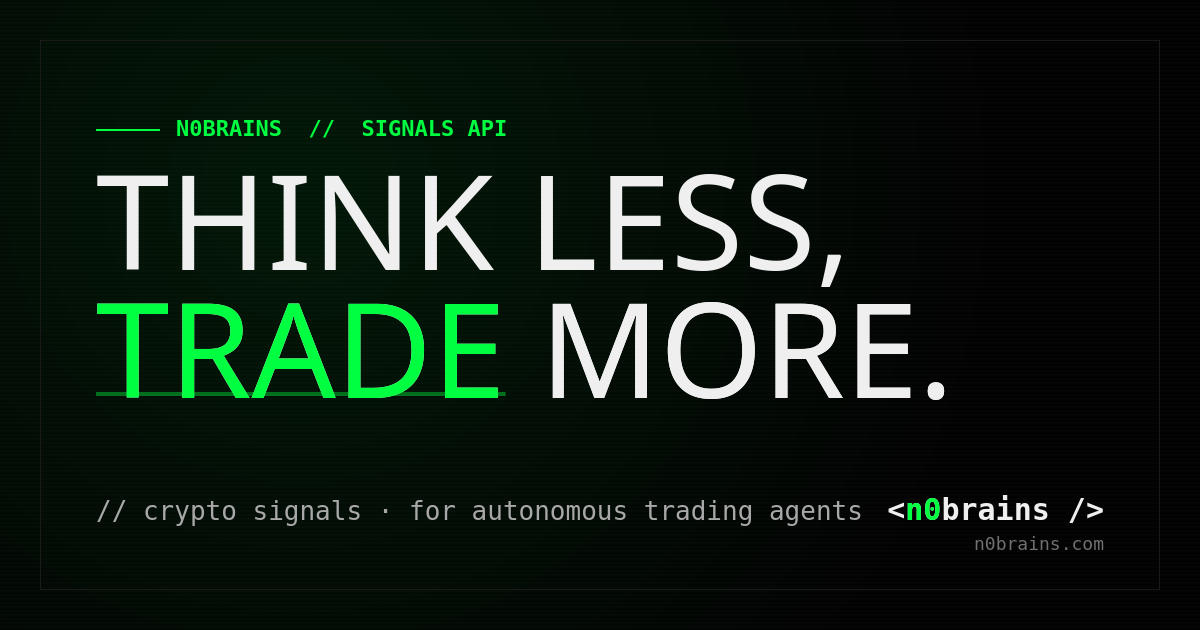
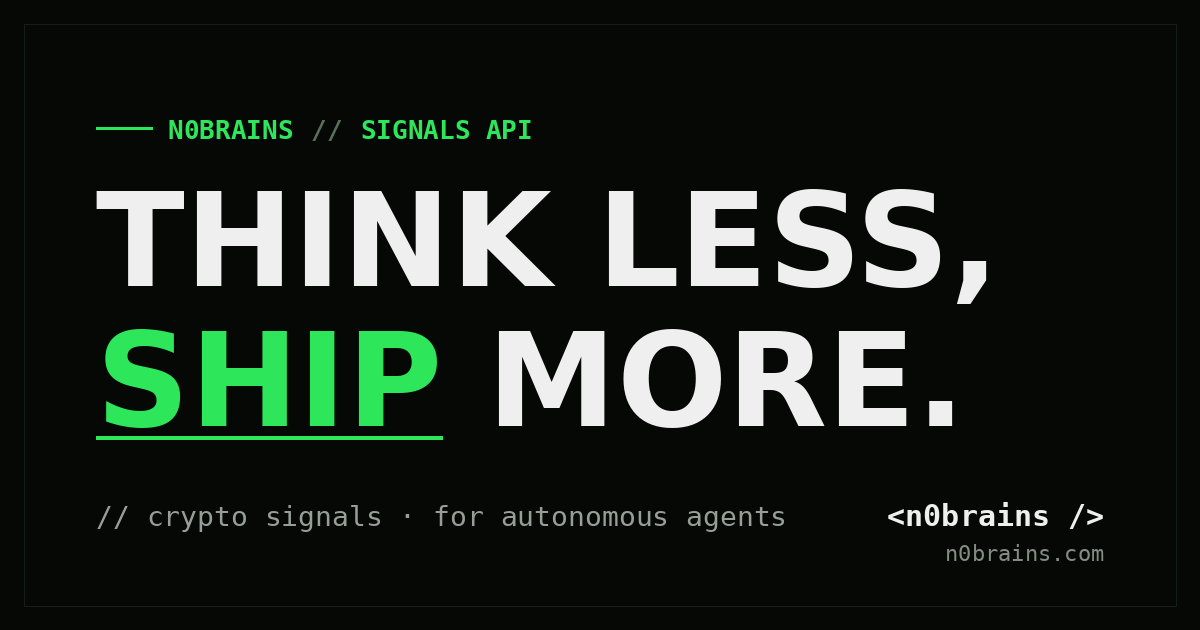
Regenerate og-default.png: Think Less SHIP More (was stale Trade More from May 14)
Link previews still showed the old THINK LESS, TRADE MORE card — a static PNG
baked before the Ship More rebrand, never regenerated. New card matches current
tagline + design. Adds scripts/gen_og_default.py to rebuild it.

diff --git a/scripts/gen_og_default.py b/scripts/gen_og_default.py
@@ -1,0 +1,87 @@
+#!/usr/bin/env python3
+"""Generate public/og-default.png — the default social/link-preview card.
+
+Was baked 2026-05-14 with the OLD tagline "THINK LESS, TRADE MORE" + "trading
+agents"; the site rebranded to "Think Less, Ship More" but this static PNG was
+never regenerated, so link previews still showed the old text. This recreates it
+with the current tagline. Re-run: python3 scripts/gen_og_default.py
+"""
+import os
+
+from PIL import Image, ImageDraw, ImageFont
+
+W, H = 1200, 630
+BG = (5, 8, 5)
+ACCENT = (45, 230, 90)       # green
+HEAD = (239, 239, 239)       # near-white
+MUTED = (130, 140, 130)
+SUB = (150, 158, 150)
+
+FONT_DIR = "/usr/share/fonts/truetype/dejavu"
+SANS = os.path.join(FONT_DIR, "DejaVuSans.ttf")
+SANS_BOLD = os.path.join(FONT_DIR, "DejaVuSans-Bold.ttf")
+MONO = os.path.join(FONT_DIR, "DejaVuSansMono.ttf")
+MONO_BOLD = os.path.join(FONT_DIR, "DejaVuSansMono-Bold.ttf")
+OUT = os.path.join(os.path.dirname(__file__), "..", "public", "og-default.png")
+
+
+def f(path, size):
+    return ImageFont.truetype(path, size)
+
+
+def main():
+    img = Image.new("RGB", (W, H), BG)
+    d = ImageDraw.Draw(img)
+
+    # subtle vignette border
+    d.rectangle([24, 24, W - 24, H - 24], outline=(20, 30, 20), width=1)
+
+    pad = 96
+
+    # ── header: ── N0BRAINS // SIGNALS API
+    hy = 120
+    d.line([(pad, hy + 8), (pad + 56, hy + 8)], fill=ACCENT, width=3)
+    hx = pad + 72
+    hf = f(MONO_BOLD, 26)
+    d.text((hx, hy - 6), "N0BRAINS", font=hf, fill=ACCENT)
+    w1 = d.textlength("N0BRAINS", font=hf)
+    d.text((hx + w1 + 18, hy - 6), "//", font=hf, fill=(90, 110, 90))
+    w2 = d.textlength("//", font=hf)
+    d.text((hx + w1 + 18 + w2 + 18, hy - 6), "SIGNALS API", font=hf, fill=ACCENT)
+
+    # ── big tagline: THINK LESS, / SHIP MORE.  (SHIP in green, underlined)
+    big = f(SANS_BOLD, 130)
+    line1_y = 165
+    line2_y = line1_y + 140
+    d.text((pad, line1_y), "THINK LESS,", font=big, fill=HEAD)
+
+    ship = "SHIP"
+    rest = " MORE."
+    sw = d.textlength(ship, font=big)
+    d.text((pad, line2_y), ship, font=big, fill=ACCENT)
+    d.text((pad + sw, line2_y), rest, font=big, fill=HEAD)
+    # underline under SHIP
+    ul_y = line2_y + 132
+    d.line([(pad, ul_y), (pad + sw, ul_y)], fill=ACCENT, width=4)
+
+    # ── bottom subtitle
+    subf = f(MONO, 28)
+    sy = 500
+    d.text((pad, sy), "// crypto signals · for autonomous agents", font=subf, fill=SUB)
+    # n0brains /> tag on the right
+    tagf = f(MONO_BOLD, 30)
+    tag = "<n0brains />"
+    tw = d.textlength(tag, font=tagf)
+    d.text((W - pad - tw, sy - 2), tag, font=tagf, fill=HEAD)
+    # url bottom-right
+    urlf = f(MONO, 22)
+    url = "n0brains.com"
+    uw = d.textlength(url, font=urlf)
+    d.text((W - pad - uw, sy + 40), url, font=urlf, fill=MUTED)
+
+    img.save(OUT)
+    print(f"wrote {os.path.abspath(OUT)}")
+
+
+if __name__ == "__main__":
+    main()